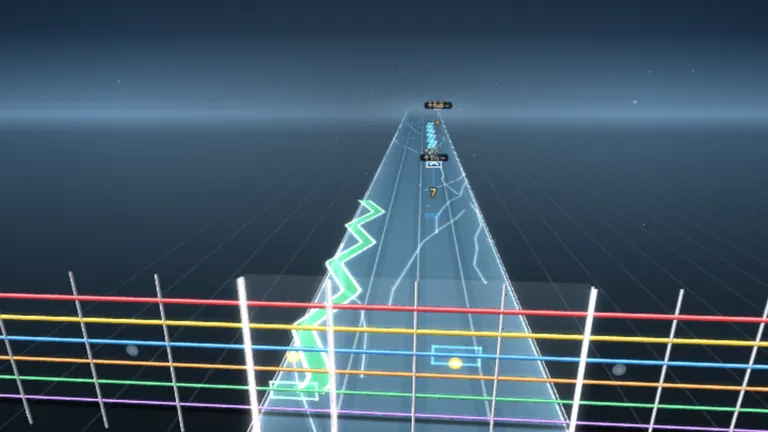
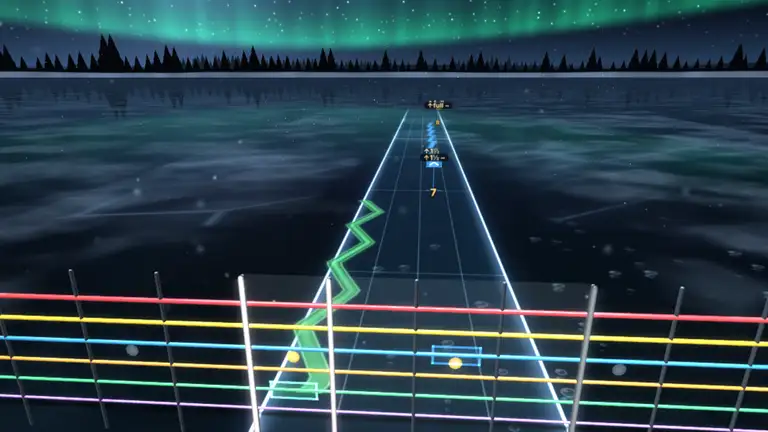
Frozen Lake: its pictures; mirror floor off (the HD parts are not mirrored)
Claude-Session: https://claude.ai/code/session_01VmPGRaCGY7hXPzbfxZBMtC

diff --git a/src/renderer/js/hwlooks.js b/src/renderer/js/hwlooks.js
@@ -143,7 +143,7 @@ export const THEMES = [
     hd: 'frozen', // drawn by its own graphics: styles/frozen.js (see docs/hd-styles.md)
     wink: 'Cold hands, warm heart. Mind the cracks.',
     about: 'A frozen lake at night: clear dark ice with cracks and bubbles under it, pines, a moon and an aurora, falling snow, notes cut from ice crystal and frosted steel strings.',
-    def: { bright: 1.05, glow: 0.8, refl: 'full', fog: 0.35, gem: 'glass', hit: 'flake', amb: true },
+    def: { bright: 1.05, glow: 0.8, refl: 'off', fog: 0.35, gem: 'glass', hit: 'flake', amb: true },
     sig: { floor: 'ice', rails: 'frost', pool: 0.06, beat: 0.4, amb: 'snow' },
     sky: { top: '#02060e', mid: '#0a1a2e', hor: '#4a6e8e', near: '#0e1a26', far: '#3a566e', pattern: 0, patA: 0, key: 0.16, keyCol: '#dff4ff', horLine: 0.12, horW: 0.03, horCol: '#e8f8ff', stars: 1 },
     fogCol: '#1a2c3e',
